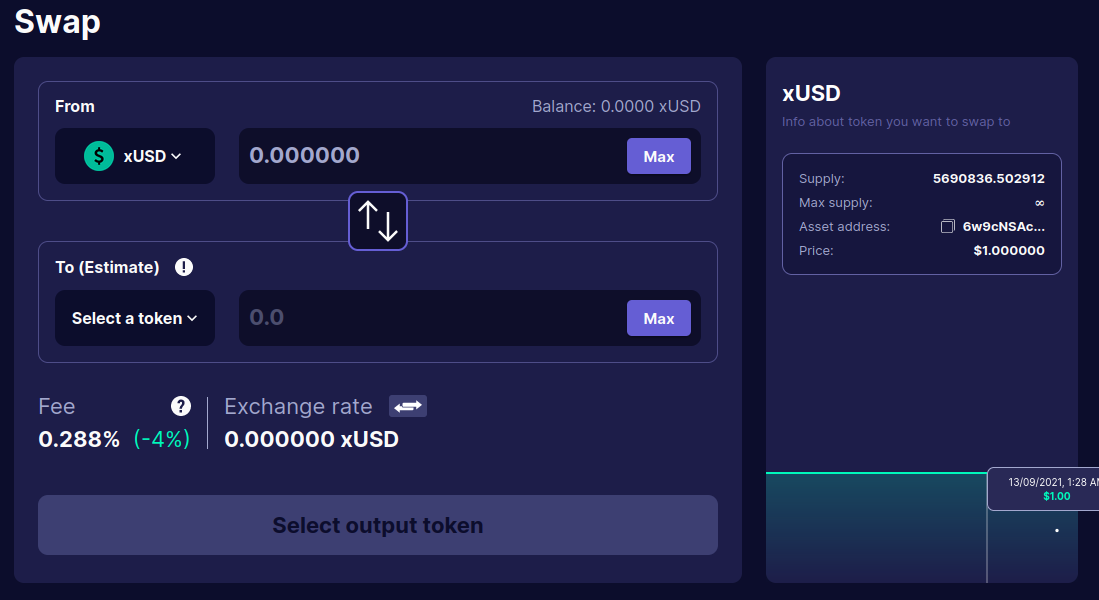
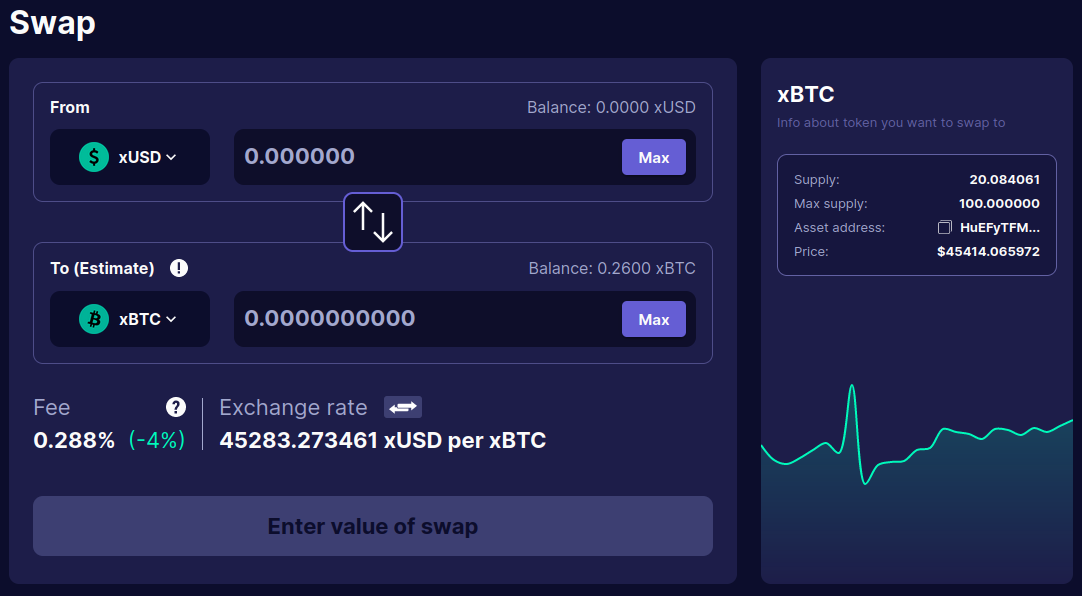
update user-docs- change Exchange

Changed region(s): [[0.0, 0.0906, 1.0, 0.9966], [0.0, 0.0, 0.0915, 0.0604]]

diff --git a/docs/docs/exchange.md b/docs/docs/exchange.md
@@ -59,3 +59,11 @@ You can check whether everything went smoothly:
 - Go to the Staking tab, in _Synthetic_ section, you should see that the asset you sold decreased, and bought increased.
 
 ![Confirmation](/img/docs/exchangeConfirmation.png)
+
+### Token chart
+
+You can view: 
+- Information about the token you want to swap to 
+- Price chart from last 24 hours
+
+![Exchange-Chart](/img/docs/exchangeChart.png)
